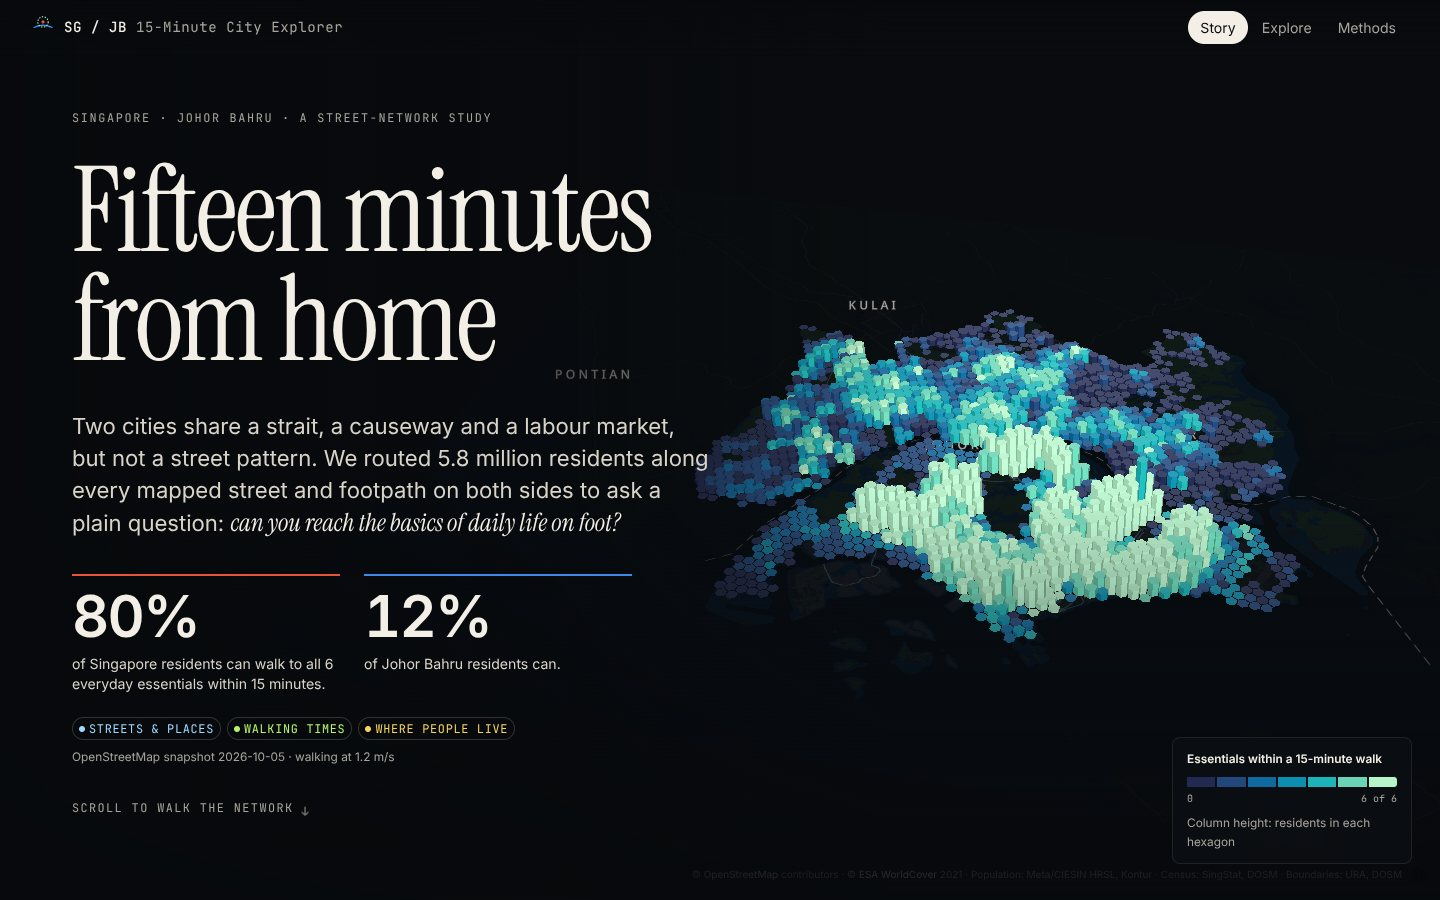
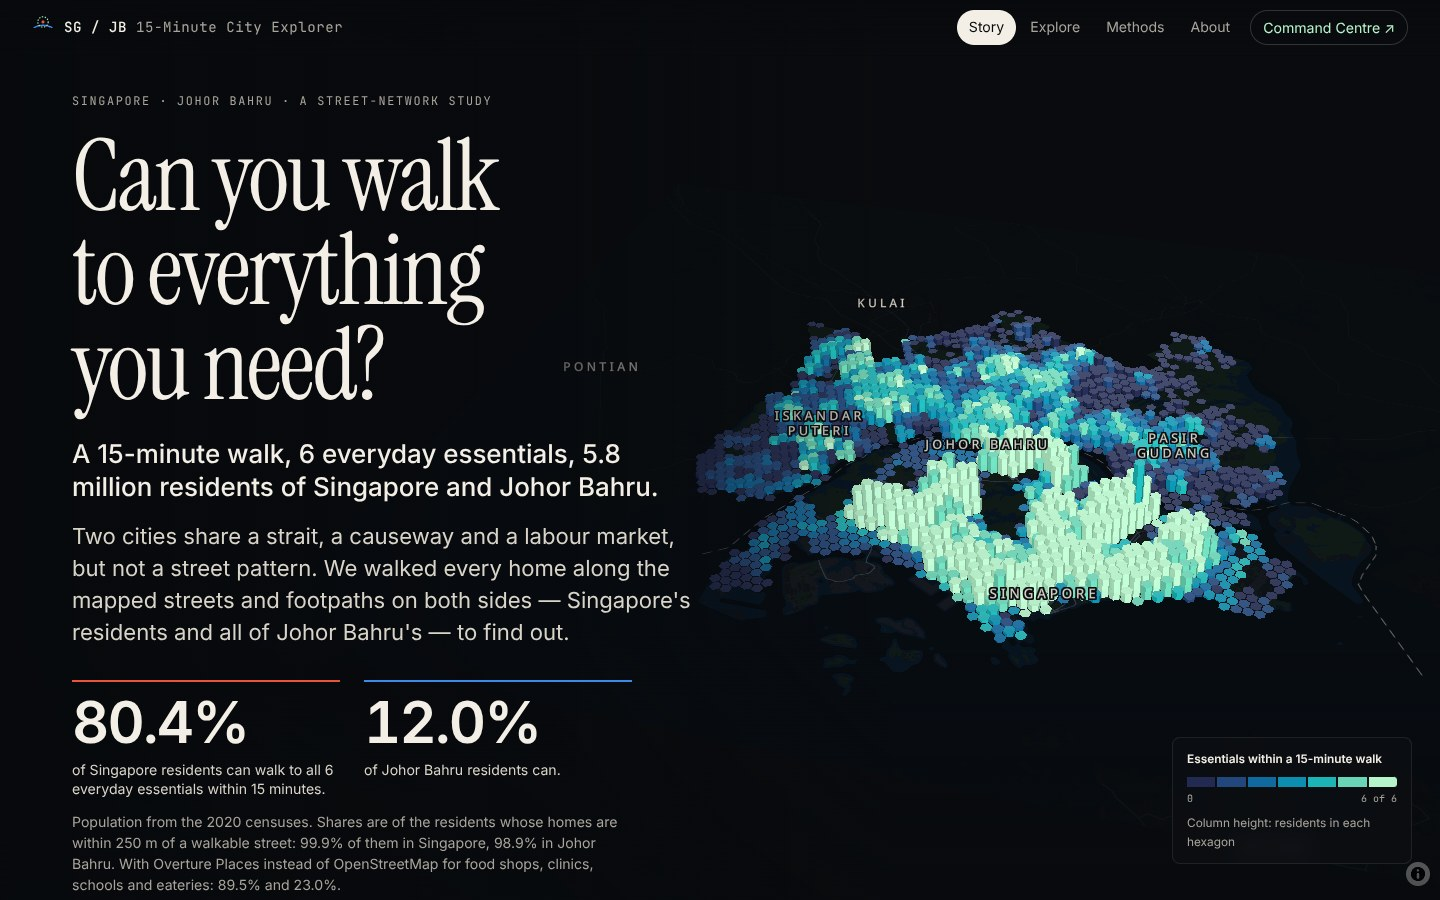
docs: carry the new headline into the README and case study
The site now asks the question rather than labelling the study, so the
written entry points say the same thing.

- README tagline and the hero image's alt text, and the case study's
  standfirst, become "Can you walk to everything you need?".
- docs/img/story-hero.jpg re-shot from the current hero at 1440x900; the
  old one still showed "Fifteen minutes from home" and rounded 80% / 12%.

The product name — Singapore / Johor Bahru 15-Minute City Explorer — is
unchanged in the README heading, CITATION.cff, the page title, llms.txt
and the schema.org graph: it is the name of the thing, not the headline
of the argument, and a question makes a poor citation title.

Claude-Session: https://claude.ai/code/session_013QXKZuymN2QFfNA5xvDyzW

diff --git a/README.md b/README.md
@@ -1,11 +1,11 @@
 # Singapore / Johor Bahru 15-Minute City Explorer
 
-**How far is daily life from home — and what could change it?** An open, reproducible
-street-network study of walkable access to everyday essentials for 5.8 million people in
-Singapore and Johor Bahru, with scenario models for the RTS Link, shared autonomous feeders and
-the conversion of car-park land into neighbourhood hubs.
+**Can you walk to everything you need?** An open, reproducible street-network study of
+walkable access to everyday essentials for 5.8 million people in Singapore and Johor Bahru,
+with scenario models for the RTS Link, shared autonomous feeders and the conversion of
+car-park land into neighbourhood hubs.
 
-![Fifteen minutes from home — Singapore and Johor Bahru as hexagon columns: height shows residents, colour shows how many of six essentials are within a 15-minute walk](docs/img/story-hero.jpg)
+![Can you walk to everything you need? — Singapore and Johor Bahru as hexagon columns: height shows residents, colour shows how many of six essentials are within a 15-minute walk](docs/img/story-hero.jpg)
 
 **Three views of one dataset:** a scrollytelling **Story**, an interactive **Explorer** (change any
 assumption, click anywhere to walk the network) and a **Methods** page generated from the data.

diff --git a/docs/case-study.md b/docs/case-study.md
@@ -1,7 +1,7 @@
 # Case study — Singapore / Johor Bahru 15-Minute City Explorer
 
-> How far is daily life from home in two cities that share a strait — and what could future
-> mobility change? An open, reproducible street-network study for 5.8 million people.
+> Can you walk to everything you need? Two cities share a strait — and not a street pattern.
+> An open, reproducible street-network study for 5.8 million people.
 
 All figures below come from `data/derived/summary.json` (OpenStreetMap snapshot 2026-10-05,
 walking at 1.2 m/s, 15 minutes, core definitions) unless stated otherwise.
